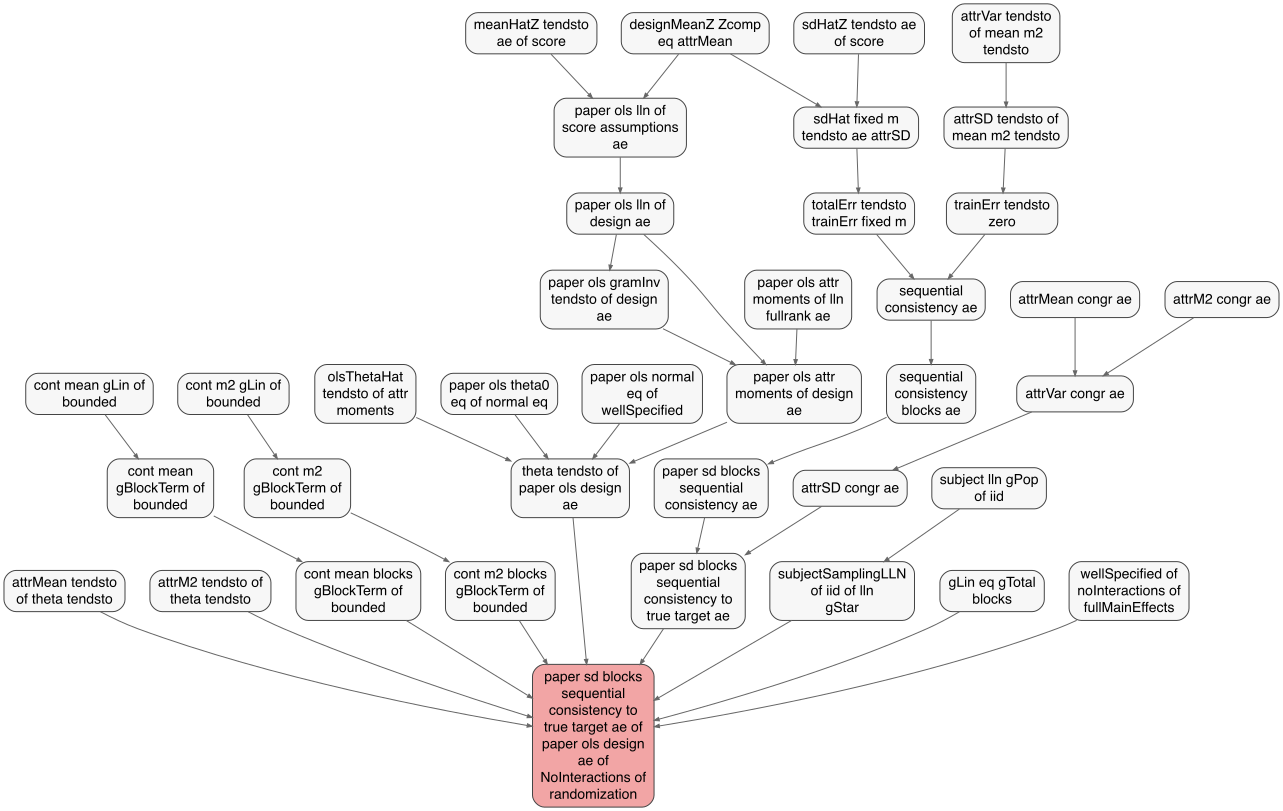
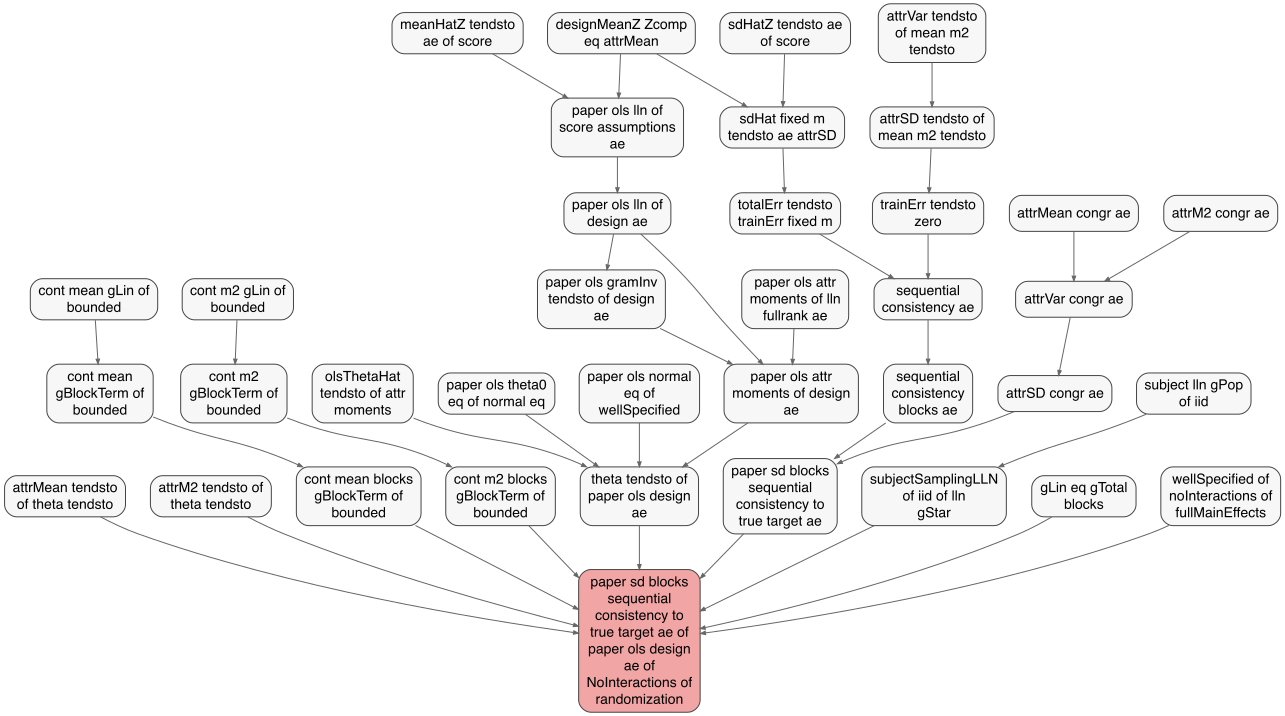
cut more lines

Changed region(s): [[0.0, 0.0, 0.9977, 1.0], [0.5924, 0.7989, 0.7171, 0.8603], [0.1871, 0.7989, 0.2182, 0.8296]]

diff --git a/dependency_tables.md b/dependency_tables.md
@@ -26,25 +26,24 @@ output of `Scratch.lean`.
 <col style="width: 1%" />
 <col style="width: 2%" />
 <col style="width: 2%" />
-<col style="width: 1%" />
 <col style="width: 2%" />
 <col style="width: 2%" />
-<col style="width: 1%" />
-<col style="width: 1%" />
 <col style="width: 2%" />
 <col style="width: 1%" />
 <col style="width: 1%" />
+<col style="width: 2%" />
 <col style="width: 1%" />
 <col style="width: 1%" />
 <col style="width: 1%" />
-<col style="width: 3%" />
+<col style="width: 1%" />
+<col style="width: 1%" />
 <col style="width: 4%" />
 <col style="width: 2%" />
 <col style="width: 8%" />
 <col style="width: 2%" />
 <col style="width: 2%" />
 <col style="width: 3%" />
-<col style="width: 1%" />
+<col style="width: 2%" />
 <col style="width: 2%" />
 <col style="width: 3%" />
 </colgroup>
@@ -83,8 +82,6 @@ gStar</th>
 <th style="text-align: left;">attrVar congr ae</th>
 <th style="text-align: left;">attrSD congr ae</th>
 <th style="text-align: left;">gLin eq gTotal blocks</th>
-<th style="text-align: left;">paper sd blocks sequential consistency
-ae</th>
 <th style="text-align: left;">paper sd blocks sequential consistency to
 true target ae</th>
 <th style="text-align: left;">paper ols attr moments of design ae</th>
@@ -135,7 +132,6 @@ randomization</td>
 <td style="text-align: left;">❌</td>
 <td style="text-align: left;">❌</td>
 <td style="text-align: left;">❌</td>
-<td style="text-align: left;">❌</td>
 <td style="text-align: left;">✅</td>
 <td style="text-align: left;">✅</td>
 <td style="text-align: left;">❌</td>
@@ -147,7 +143,7 @@ randomization</td>
 </tr>
 <tr>
 <td style="text-align: left;">DesignAttrIID identA</td>
-<td style="text-align: left;">14</td>
+<td style="text-align: left;">13</td>
 <td style="text-align: left;">❌</td>
 <td style="text-align: left;">❌</td>
 <td style="text-align: left;">❌</td>
@@ -176,7 +172,6 @@ randomization</td>
 <td style="text-align: left;">❌</td>
 <td style="text-align: left;">❌</td>
 <td style="text-align: left;">❌</td>
-<td style="text-align: left;">✅</td>
 <td style="text-align: left;">✅</td>
 <td style="text-align: left;">✅</td>
 <td style="text-align: left;">✅</td>
@@ -189,7 +184,7 @@ randomization</td>
 </tr>
 <tr>
 <td style="text-align: left;">DesignAttrIID indepA</td>
-<td style="text-align: left;">14</td>
+<td style="text-align: left;">13</td>
 <td style="text-align: left;">❌</td>
 <td style="text-align: left;">❌</td>
 <td style="text-align: left;">❌</td>
@@ -218,7 +213,6 @@ randomization</td>
 <td style="text-align: left;">❌</td>
 <td style="text-align: left;">❌</td>
 <td style="text-align: left;">❌</td>
-<td style="text-align: left;">✅</td>
 <td style="text-align: left;">✅</td>
 <td style="text-align: left;">✅</td>
 <td style="text-align: left;">✅</td>
@@ -231,7 +225,7 @@ randomization</td>
 </tr>
 <tr>
 <td style="text-align: left;">DesignAttrIID measA</td>
-<td style="text-align: left;">14</td>
+<td style="text-align: left;">13</td>
 <td style="text-align: left;">❌</td>
 <td style="text-align: left;">❌</td>
 <td style="text-align: left;">❌</td>
@@ -260,7 +254,6 @@ randomization</td>
 <td style="text-align: left;">❌</td>
 <td style="text-align: left;">❌</td>
 <td style="text-align: left;">❌</td>
-<td style="text-align: left;">✅</td>
 <td style="text-align: left;">✅</td>
 <td style="text-align: left;">✅</td>
 <td style="text-align: left;">✅</td>
@@ -273,7 +266,7 @@ randomization</td>
 </tr>
 <tr>
 <td style="text-align: left;">EvalAttrIID identA</td>
-<td style="text-align: left;">7</td>
+<td style="text-align: left;">6</td>
 <td style="text-align: left;">❌</td>
 <td style="text-align: left;">❌</td>
 <td style="text-align: left;">❌</td>
@@ -302,7 +295,6 @@ randomization</td>
 <td style="text-align: left;">❌</td>
 <td style="text-align: left;">❌</td>
 <td style="text-align: left;">❌</td>
-<td style="text-align: left;">✅</td>
 <td style="text-align: left;">✅</td>
 <td style="text-align: left;">❌</td>
 <td style="text-align: left;">✅</td>
@@ -315,7 +307,7 @@ randomization</td>
 </tr>
 <tr>
 <td style="text-align: left;">EvalAttrIID indepA</td>
-<td style="text-align: left;">7</td>
+<td style="text-align: left;">6</td>
 <td style="text-align: left;">❌</td>
 <td style="text-align: left;">❌</td>
 <td style="text-align: left;">❌</td>
@@ -344,7 +336,6 @@ randomization</td>
 <td style="text-align: left;">❌</td>
 <td style="text-align: left;">❌</td>
 <td style="text-align: left;">❌</td>
-<td style="text-align: left;">✅</td>
 <td style="text-align: left;">✅</td>
 <td style="text-align: left;">❌</td>
 <td style="text-align: left;">✅</td>
@@ -357,7 +348,7 @@ randomization</td>
 </tr>
 <tr>
 <td style="text-align: left;">EvalAttrIID measA</td>
-<td style="text-align: left;">7</td>
+<td style="text-align: left;">6</td>
 <td style="text-align: left;">❌</td>
 <td style="text-align: left;">❌</td>
 <td style="text-align: left;">❌</td>
@@ -386,7 +377,6 @@ randomization</td>
 <td style="text-align: left;">❌</td>
 <td style="text-align: left;">❌</td>
 <td style="text-align: left;">❌</td>
-<td style="text-align: left;">✅</td>
 <td style="text-align: left;">✅</td>
 <td style="text-align: left;">❌</td>
 <td style="text-align: left;">✅</td>
@@ -399,7 +389,7 @@ randomization</td>
 </tr>
 <tr>
 <td style="text-align: left;">EvalAttrLawEqPop identA</td>
-<td style="text-align: left;">7</td>
+<td style="text-align: left;">6</td>
 <td style="text-align: left;">❌</td>
 <td style="text-align: left;">❌</td>
 <td style="text-align: left;">❌</td>
@@ -428,7 +418,6 @@ randomization</td>
 <td style="text-align: left;">❌</td>
 <td style="text-align: left;">❌</td>
 <td style="text-align: left;">❌</td>
-<td style="text-align: left;">✅</td>
 <td style="text-align: left;">✅</td>
 <td style="text-align: left;">❌</td>
 <td style="text-align: left;">✅</td>
@@ -441,7 +430,7 @@ randomization</td>
 </tr>
 <tr>
 <td style="text-align: left;">EvalAttrLawEqPop indepA</td>
-<td style="text-align: left;">7</td>
+<td style="text-align: left;">6</td>
 <td style="text-align: left;">❌</td>
 <td style="text-align: left;">❌</td>
 <td style="text-align: left;">❌</td>
@@ -470,7 +459,6 @@ randomization</td>
 <td style="text-align: left;">❌</td>
 <td style="text-align: left;">❌</td>
 <td style="text-align: left;">❌</td>
-<td style="text-align: left;">✅</td>
 <td style="text-align: left;">✅</td>
 <td style="text-align: left;">❌</td>
 <td style="text-align: left;">✅</td>
@@ -483,7 +471,7 @@ randomization</td>
 </tr>
 <tr>
 <td style="text-align: left;">EvalAttrLawEqPop measA</td>
-<td style="text-align: left;">7</td>
+<td style="text-align: left;">6</td>
 <td style="text-align: left;">❌</td>
 <td style="text-align: left;">❌</td>
 <td style="text-align: left;">❌</td>
@@ -512,7 +500,6 @@ randomization</td>
 <td style="text-align: left;">❌</td>
 <td style="text-align: left;">❌</td>
 <td style="text-align: left;">❌</td>
-<td style="text-align: left;">✅</td>
 <td style="text-align: left;">✅</td>
 <td style="text-align: left;">❌</td>
 <td style="text-align: left;">✅</td>
@@ -526,7 +513,6 @@ randomization</td>
 <tr>
 <td style="text-align: left;">FullMainEffectsTerms</td>
 <td style="text-align: left;">2</td>
-<td style="text-align: left;">❌</td>
 <td style="text-align: left;">❌</td>
 <td style="text-align: left;">❌</td>
 <td style="text-align: left;">❌</td>
@@ -597,7 +583,6 @@ randomization</td>
 <td style="text-align: left;">❌</td>
 <td style="text-align: left;">❌</td>
 <td style="text-align: left;">❌</td>
-<td style="text-align: left;">❌</td>
 <td style="text-align: left;">✅</td>
 <td style="text-align: left;">✅</td>
 <td style="text-align: left;">❌</td>
@@ -640,7 +625,6 @@ zero</td>
 <td style="text-align: left;">❌</td>
 <td style="text-align: left;">❌</td>
 <td style="text-align: left;">❌</td>
-<td style="text-align: left;">❌</td>
 <td style="text-align: left;">✅</td>
 <td style="text-align: left;">✅</td>
 <td style="text-align: left;">❌</td>
@@ -667,7 +651,6 @@ zero</td>
 <td style="text-align: left;">❌</td>
 <td style="text-align: left;">❌</td>
 <td style="text-align: left;">✅</td>
-<td style="text-align: left;">❌</td>
 <td style="text-align: left;">❌</td>
 <td style="text-align: left;">❌</td>
 <td style="text-align: left;">❌</td>
@@ -725,7 +708,6 @@ fInter</td>
 <td style="text-align: left;">❌</td>
 <td style="text-align: left;">❌</td>
 <td style="text-align: left;">❌</td>
-<td style="text-align: left;">❌</td>
 <td style="text-align: left;">✅</td>
 <td style="text-align: left;">✅</td>
 <td style="text-align: left;">❌</td>
@@ -752,7 +734,6 @@ fInter</td>
 <td style="text-align: left;">❌</td>
 <td style="text-align: left;">❌</td>
 <td style="text-align: left;">✅</td>
-<td style="text-align: left;">❌</td>
 <td style="text-align: left;">❌</td>
 <td style="text-align: left;">❌</td>
 <td style="text-align: left;">❌</td>
@@ -809,7 +790,6 @@ fInter</td>
 <td style="text-align: left;">❌</td>
 <td style="text-align: left;">❌</td>
 <td style="text-align: left;">❌</td>
-<td style="text-align: left;">❌</td>
 <td style="text-align: left;">✅</td>
 <td style="text-align: left;">✅</td>
 <td style="text-align: left;">❌</td>
@@ -836,7 +816,6 @@ fInter</td>
 <td style="text-align: left;">❌</td>
 <td style="text-align: left;">❌</td>
 <td style="text-align: left;">✅</td>
-<td style="text-align: left;">❌</td>
 <td style="text-align: left;">❌</td>
 <td style="text-align: left;">❌</td>
 <td style="text-align: left;">❌</td>
@@ -894,7 +873,6 @@ isUnit</td>
 <td style="text-align: left;">❌</td>
 <td style="text-align: left;">❌</td>
 <td style="text-align: left;">❌</td>
-<td style="text-align: left;">❌</td>
 <td style="text-align: left;">✅</td>
 <td style="text-align: left;">✅</td>
 <td style="text-align: left;">❌</td>
@@ -923,7 +901,6 @@ isUnit</td>
 <td style="text-align: left;">❌</td>
 <td style="text-align: left;">✅</td>
 <td style="text-align: left;">✅</td>
-<td style="text-align: left;">❌</td>
 <td style="text-align: left;">❌</td>
 <td style="text-align: left;">❌</td>
 <td style="text-align: left;">❌</td>
@@ -979,7 +956,6 @@ isUnit</td>
 <td style="text-align: left;">❌</td>
 <td style="text-align: left;">❌</td>
 <td style="text-align: left;">❌</td>
-<td style="text-align: left;">❌</td>
 <td style="text-align: left;">✅</td>
 <td style="text-align: left;">❌</td>
 <td style="text-align: left;">❌</td>
@@ -1007,7 +983,6 @@ isUnit</td>
 <td style="text-align: left;">❌</td>
 <td style="text-align: left;">✅</td>
 <td style="text-align: left;">✅</td>
-<td style="text-align: left;">❌</td>
 <td style="text-align: left;">❌</td>
 <td style="text-align: left;">❌</td>
 <td style="text-align: left;">❌</td>
@@ -1063,7 +1038,6 @@ isUnit</td>
 <td style="text-align: left;">❌</td>
 <td style="text-align: left;">❌</td>
 <td style="text-align: left;">❌</td>
-<td style="text-align: left;">❌</td>
 <td style="text-align: left;">✅</td>
 <td style="text-align: left;">❌</td>
 <td style="text-align: left;">❌</td>
@@ -1091,7 +1065,6 @@ isUnit</td>
 <td style="text-align: left;">❌</td>
 <td style="text-align: left;">❌</td>
 <td style="text-align: left;">✅</td>
-<td style="text-align: left;">❌</td>
 <td style="text-align: left;">❌</td>
 <td style="text-align: left;">❌</td>
 <td style="text-align: left;">❌</td>
@@ -1147,7 +1120,6 @@ isUnit</td>
 <td style="text-align: left;">❌</td>
 <td style="text-align: left;">❌</td>
 <td style="text-align: left;">❌</td>
-<td style="text-align: left;">❌</td>
 <td style="text-align: left;">✅</td>
 <td style="text-align: left;">❌</td>
 <td style="text-align: left;">❌</td>
@@ -1175,7 +1147,6 @@ isUnit</td>
 <td style="text-align: left;">❌</td>
 <td style="text-align: left;">✅</td>
 <td style="text-align: left;">✅</td>
-<td style="text-align: left;">❌</td>
 <td style="text-align: left;">❌</td>
 <td style="text-align: left;">❌</td>
 <td style="text-align: left;">❌</td>
@@ -1231,7 +1202,6 @@ isUnit</td>
 <td style="text-align: left;">❌</td>
 <td style="text-align: left;">❌</td>
 <td style="text-align: left;">❌</td>
-<td style="text-align: left;">❌</td>
 <td style="text-align: left;">✅</td>
 <td style="text-align: left;">❌</td>
 <td style="text-align: left;">❌</td>
@@ -1247,8 +1217,8 @@ isUnit</td>
 
 ## Theorem dependency DAG
 
-<img src="dependency_tables_files/theorem_dependency_dag.png" width="1283" />
+<img src="dependency_tables_files/theorem_dependency_dag.png" width="1285" />
 
 ## OLS SD block consistency DAG (direct assumptions)
 
-<img src="dependency_tables_files/ols_sd_block_consistency_dag.png" width="2222" />
+<img src="dependency_tables_files/ols_sd_block_consistency_dag.png" width="1999" />
